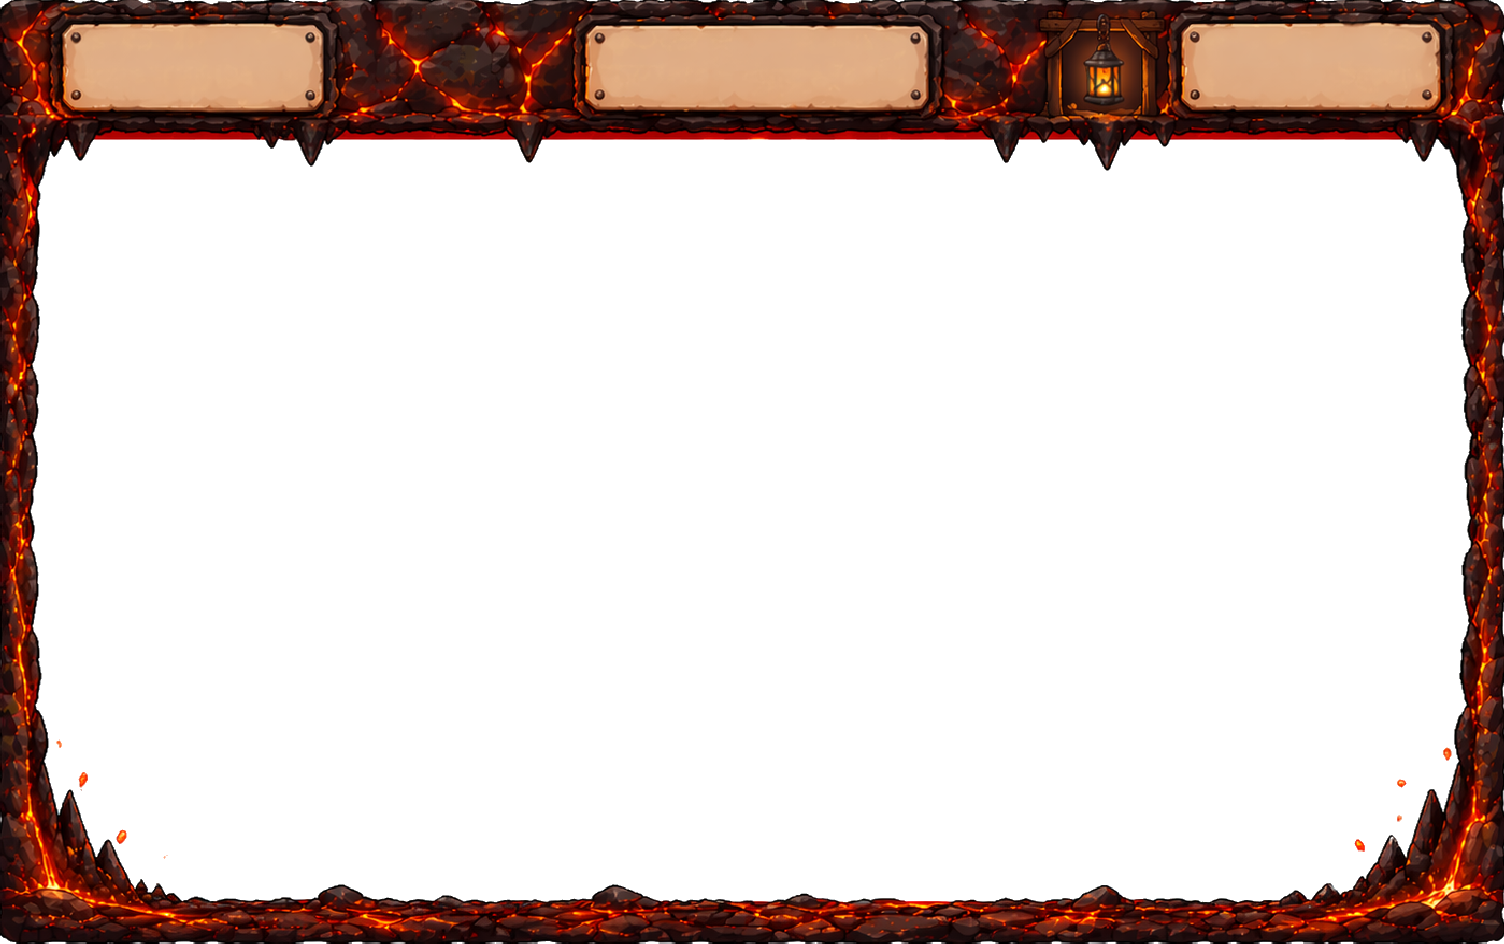
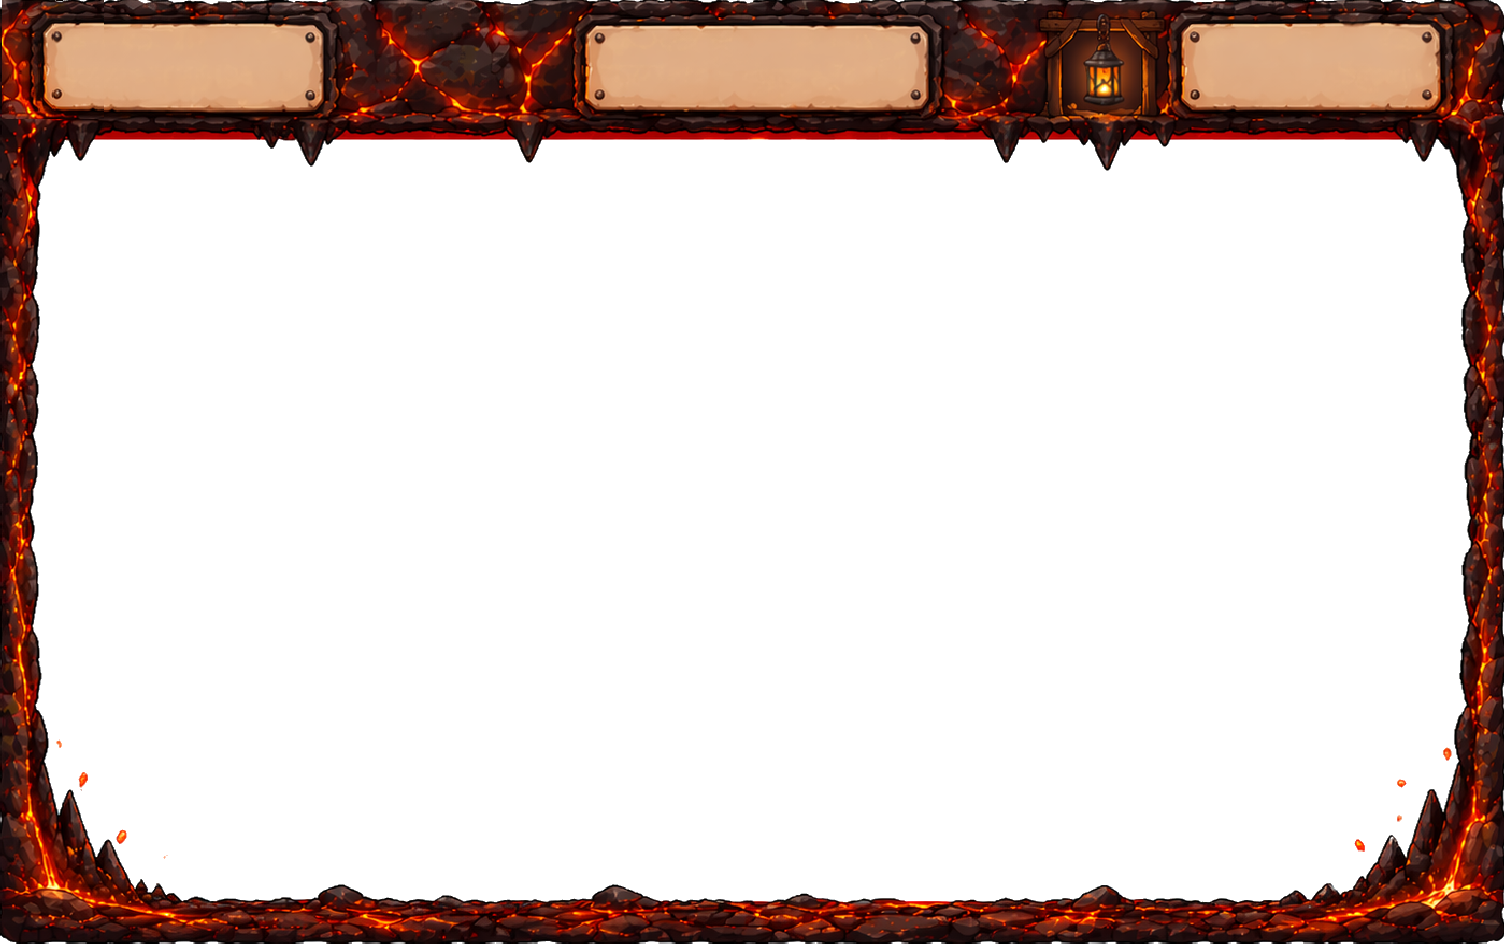
Bump release to 1.0.57

Changed region(s): [[0.0, 0.0, 0.0625, 0.1229]]

diff --git a/game.js b/game.js
@@ -5436,12 +5436,12 @@ Main tuning points:
   }
 
   function getCurrentLevelSceneArt(key) {
+    if (key === "platform" && state.currentLevel === 5 && isLevelXUnlocked() && sceneArt.levelxPlatform) {
+      return sceneArt.levelxPlatform;
+    }
     var levelEntry = sceneArt.levelVariants[state.currentLevel];
     if (levelEntry && levelEntry[key]) {
       return levelEntry[key];
-    }
-    if (key === "platform" && state.currentLevel === 5 && isLevelXUnlocked() && sceneArt.levelxPlatform) {
-      return sceneArt.levelxPlatform;
     }
     return sceneArt[key] || null;
   }
@@ -13888,17 +13888,14 @@ Main tuning points:
   }
 
   function drawHud() {
-    var hudTextColor =
-      state.currentLevel === 2 || state.currentLevel === 3 || state.currentLevel === 4 ? "#ffffff" : "#111";
-    ctx.fillStyle = hudTextColor;
-    ctx.font = "16px Arial";
+    ctx.fillStyle = "#111";
+    ctx.textAlign = "left";
+    ctx.font = "22px Arial";
     var scoreLabel = "Score: " + state.score;
-    var scoreLabelWidth = ctx.measureText(scoreLabel).width;
-    ctx.fillText(scoreLabel, 18 + scoreLabelWidth * 0.5, 36);
-    ctx.font = "7px Arial";
+    ctx.fillText(scoreLabel, 54, 36);
+    ctx.font = "15px Arial";
     var maxScoreLabel = "Max Score: " + sessionMaxScore;
-    var maxScoreLabelWidth = ctx.measureText(maxScoreLabel).width;
-    ctx.fillText(maxScoreLabel, 18 + scoreLabelWidth * 0.5, 64);
+    ctx.fillText(maxScoreLabel, 54, 64);
     ctx.font = "24px Arial";
     ctx.textAlign = "center";
     if (state.gameMode === 2) {

diff --git a/version-info.js b/version-info.js
@@ -1,6 +1,6 @@
 window.HrrraVersionInfo = Object.freeze({
-  versionCode: 56,
-  versionName: "1.0.56",
+  versionCode: 57,
+  versionName: "1.0.57",
   whatsNew: [
   "Release bump to version 1.0.56.",
   "Level 1 to 4 now use canvas border overlays above gameplay.",

diff --git a/CHANGES.md b/CHANGES.md
@@ -1,11 +1,12 @@
-# Hrrra - Working Changes Log
+# Hrrra - Working Changes Log
 
 - 2026-04-24: Bumped the release metadata to `1.0.56` / `versionCode 56` after adding the `levelx` packaging path and the LevelX platform hookup.
+- 2026-04-24: Level 5 now prefers `assets/levelx/levelx_platform.png` before the generic Level 5 platform fallback, so the bonus skin no longer gets masked by the old platform art once it is unlocked.
 
 - 2026-04-24: Wired `assets/levelx/levelx_platform.png` into the Level 5 platform resolver so the bonus LevelX skin can swap the endless level platform art the same way it already swaps background and border art.
 - 2026-04-24: Reduced the top-left `Max Score` HUD label font size by 50% in `game.js` while keeping the `Score` line unchanged.
 
-- 2026-04-24: Made the GFX2 shop status row show `You don´t have enough coins to buy it.` when `New Level` is selected but the wallet cannot afford it, instead of falling back to the generic buy prompt.
+- 2026-04-24: Made the GFX2 shop status row show `You donÂ´t have enough coins to buy it.` when `New Level` is selected but the wallet cannot afford it, instead of falling back to the generic buy prompt.
 - 2026-04-24: Changed the GFX2 shop `New Level` state so once the bonus Level 5 skin is purchased, the cost field and status copy now say `Already purchased - enjoy new level 5 skin` instead of showing a price again.
 - 2026-04-23: Added `banger` and `unlocker` trophy slug mappings in `game.js` so the new `trophy_banger.png` and `trophy_unlocker.png` art files load automatically in the badges UI and unlock overlays.
 - 2026-04-23: Nudged the `trophy_xx` artwork 10% of its own height downward in both the badges overview and badge reward overlay while leaving `trophy_clean` untouched.
@@ -131,6 +132,11 @@
 ## 2026-04-22
 - Android launcher icon now uses `assets/game_icon.jpg` as the source for all `ic_launcher` and `ic_launcher_foreground` density variants.
 - Release bumped to `1.0.50` so the new Android icon and splash assets can ship as a new bundle.
+- 2026-04-24: Release bump - raised Android/web version metadata to 1.0.57 / versionCode 57 so the next store/web build is seen as newer.
+- 2026-04-24: HUD polish - moved the upper-left Score and Max Score labels 20px back to the left after the previous right shift, keeping them aligned inside the plaque.
+- 2026-04-24: HUD polish - shifted the upper-left Score and Max Score labels 50px to the right so both lines sit fully inside the scoreboard plaque.
+- 2026-04-24: HUD polish - reduced the upper-left Score and Max Score fonts again and switched both labels to left-aligned placement so the text no longer shifts as the score grows.
+- 2026-04-24: HUD polish - made all gameplay top-bar text black again and enlarged Score and Max Score in the upper-left HUD so the values read more clearly.
 - 2026-04-23: HUD tuning - aligned Max Score with Score, shifted Level further left, and moved the life hearts row up by one icon height so the mobile top bar reads cleaner.
 - 2026-04-23: Pre-run board tweak - restored an intro-only note on the Level 1 setup board: "Starting with 5 lives and Double Jump always enabled" appears under Goal, while between-level boards stay minimal.
 - 2026-04-23: Level finished overlay - stretched the level finished artwork edge-to-edge again by removing aspect-ratio preservation, so the finish screen fills the whole viewport responsively.

diff --git a/prompts.md b/prompts.md
@@ -6,6 +6,7 @@ Bump the release metadata to 1.0.53 / versionCode 53 so Android and the Vercel-f
 Change the GFX2 shop `New Level` state so once the bonus Level 5 skin is purchased, the cost field and status copy say `Already purchased - enjoy new level 5 skin` instead of showing a price again
 Make the GFX2 shop status row show `You don´t have enough coins to buy it.` when `New Level` is selected but the wallet cannot afford it, instead of falling back to the generic buy prompt
 Wire `assets/levelx/levelx_platform.png` into the Level 5 platform resolver so the bonus LevelX skin can swap the endless level platform art the same way it already swaps background and border art
+Level 5 now prefers `assets/levelx/levelx_platform.png` before the generic Level 5 platform fallback, so the bonus skin no longer gets masked by the old platform art once it is unlocked
 Reduce the top-left `Max Score` HUD label font size by 50% in `game.js` while keeping the `Score` line unchanged
 
 Add `banger` and `unlocker` trophy slug mappings in `game.js` so `trophy_banger.png` and `trophy_unlocker.png` load automatically in the badges UI and unlock overlays
@@ -104,6 +105,11 @@ Bump the release metadata to 1.0.56 / versionCode 56 so Android and the Vercel-f
 2026-04-22: bump Android release metadata to 1.0.48 / version code 48 before preparing the next AAB.
 - 2026-04-22: bump release metadata to 1.0.51 / versionCode 51 after confirming the store already has 1.0.50, and keep the Vercel-facing version files in sync for mobile update detection.
 zmensi text Score a Max Score o 33%
+- 2026-04-24: Release bump - raised Android/web version metadata to 1.0.57 / versionCode 57 so the next store/web build is seen as newer.
+- 2026-04-24: HUD polish - moved the upper-left Score and Max Score labels 20px back to the left after the previous right shift, keeping them aligned inside the plaque.
+- 2026-04-24: HUD polish - shifted the upper-left Score and Max Score labels 50px to the right so both lines sit fully inside the scoreboard plaque.
+- 2026-04-24: HUD polish - reduced the upper-left Score and Max Score fonts again and switched both labels to left-aligned placement so the text no longer shifts as the score grows.
+- 2026-04-24: HUD polish - made all gameplay top-bar text black again and enlarged Score and Max Score in the upper-left HUD so the values read more clearly.
 - 2026-04-23: HUD tuning - aligned Max Score with Score, shifted Level further left, and moved the life hearts row up by one icon height so the mobile top bar reads cleaner.
 - 2026-04-23: Pre-run board tweak - restored an intro-only note on the Level 1 setup board: "Starting with 5 lives and Double Jump always enabled" appears under Goal, while between-level boards stay minimal.
 - 2026-04-23: Level finished overlay - stretched the level finished artwork edge-to-edge again by removing aspect-ratio preservation, so the finish screen fills the whole viewport responsively.
